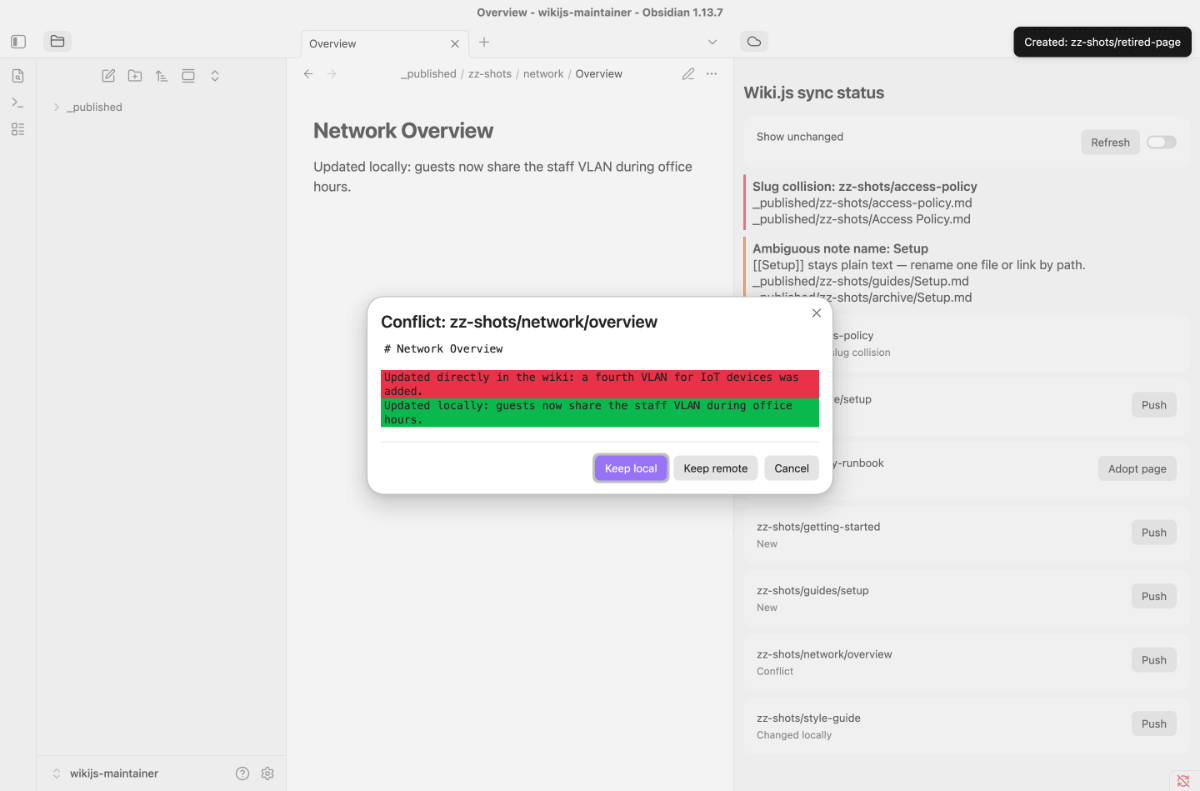
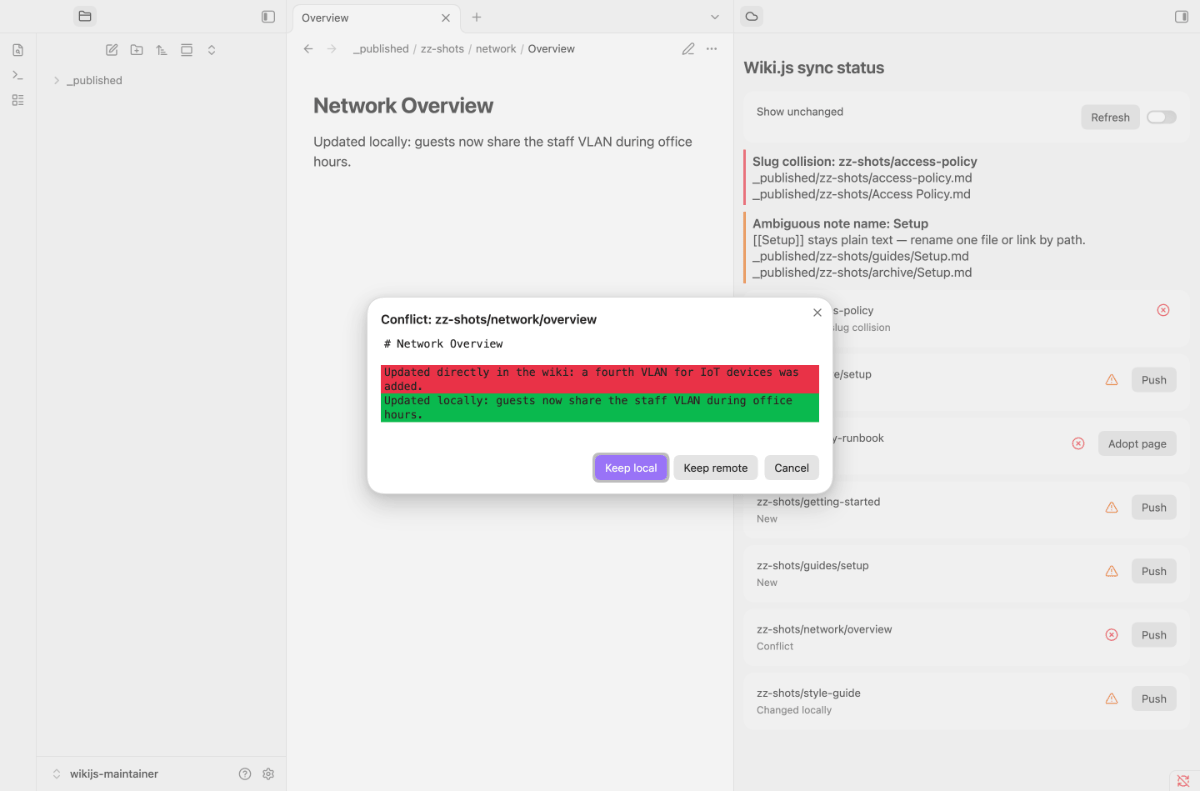
docs(images): conflict-modal.png und removal-modal.png mit dem Knopfsatz von askChoice, am Stub aufgenommen
Aufnahme gegen scripts/demo-wikijs.ts (kein echtes Wiki), Vermerk in docs/images/README.md; overview.png und settings.png unverändert. Bilder angesehen.

diff --git a/docs/images/README.md b/docs/images/README.md
@@ -46,6 +46,10 @@ npm run shots -- --list                                  # Vertrag anzeigen
 npm run shots:check                                      # Standard-Konformität prüfen
 ```
 
+## Stand der Aufnahmen
+
+`conflict-modal.png` und `removal-modal.png` sind am 2026-11-15 neu aufgenommen, nachdem beide Dialoge auf den gemeinsamen Auswahldialog des Kits umgestellt wurden (neuer Knopfsatz: „Keep local“, „Keep remote“, „Cancel“ und „Unpublish“, „Delete“, „Keep“). Sie entstanden **am lokalen Wiki.js-Stub** (`scripts/demo-wikijs.ts`, als eigener Prozess gestartet, `WIKIJS_URL` seine Adresse, `WIKIJS_TOKEN` ein beliebiger Wert), nicht an einer echten Instanz; die Seiten heißen `zz-shots/…` wie am Original. `overview.png` und `settings.png` blieben unverändert (Stand 2026-08-18).
+
 ## Was der Lauf voraussetzt
 
 - Ein gebautes Plugin (`npm run build`) — der Vault zeigt den Stand, der gerade geändert
